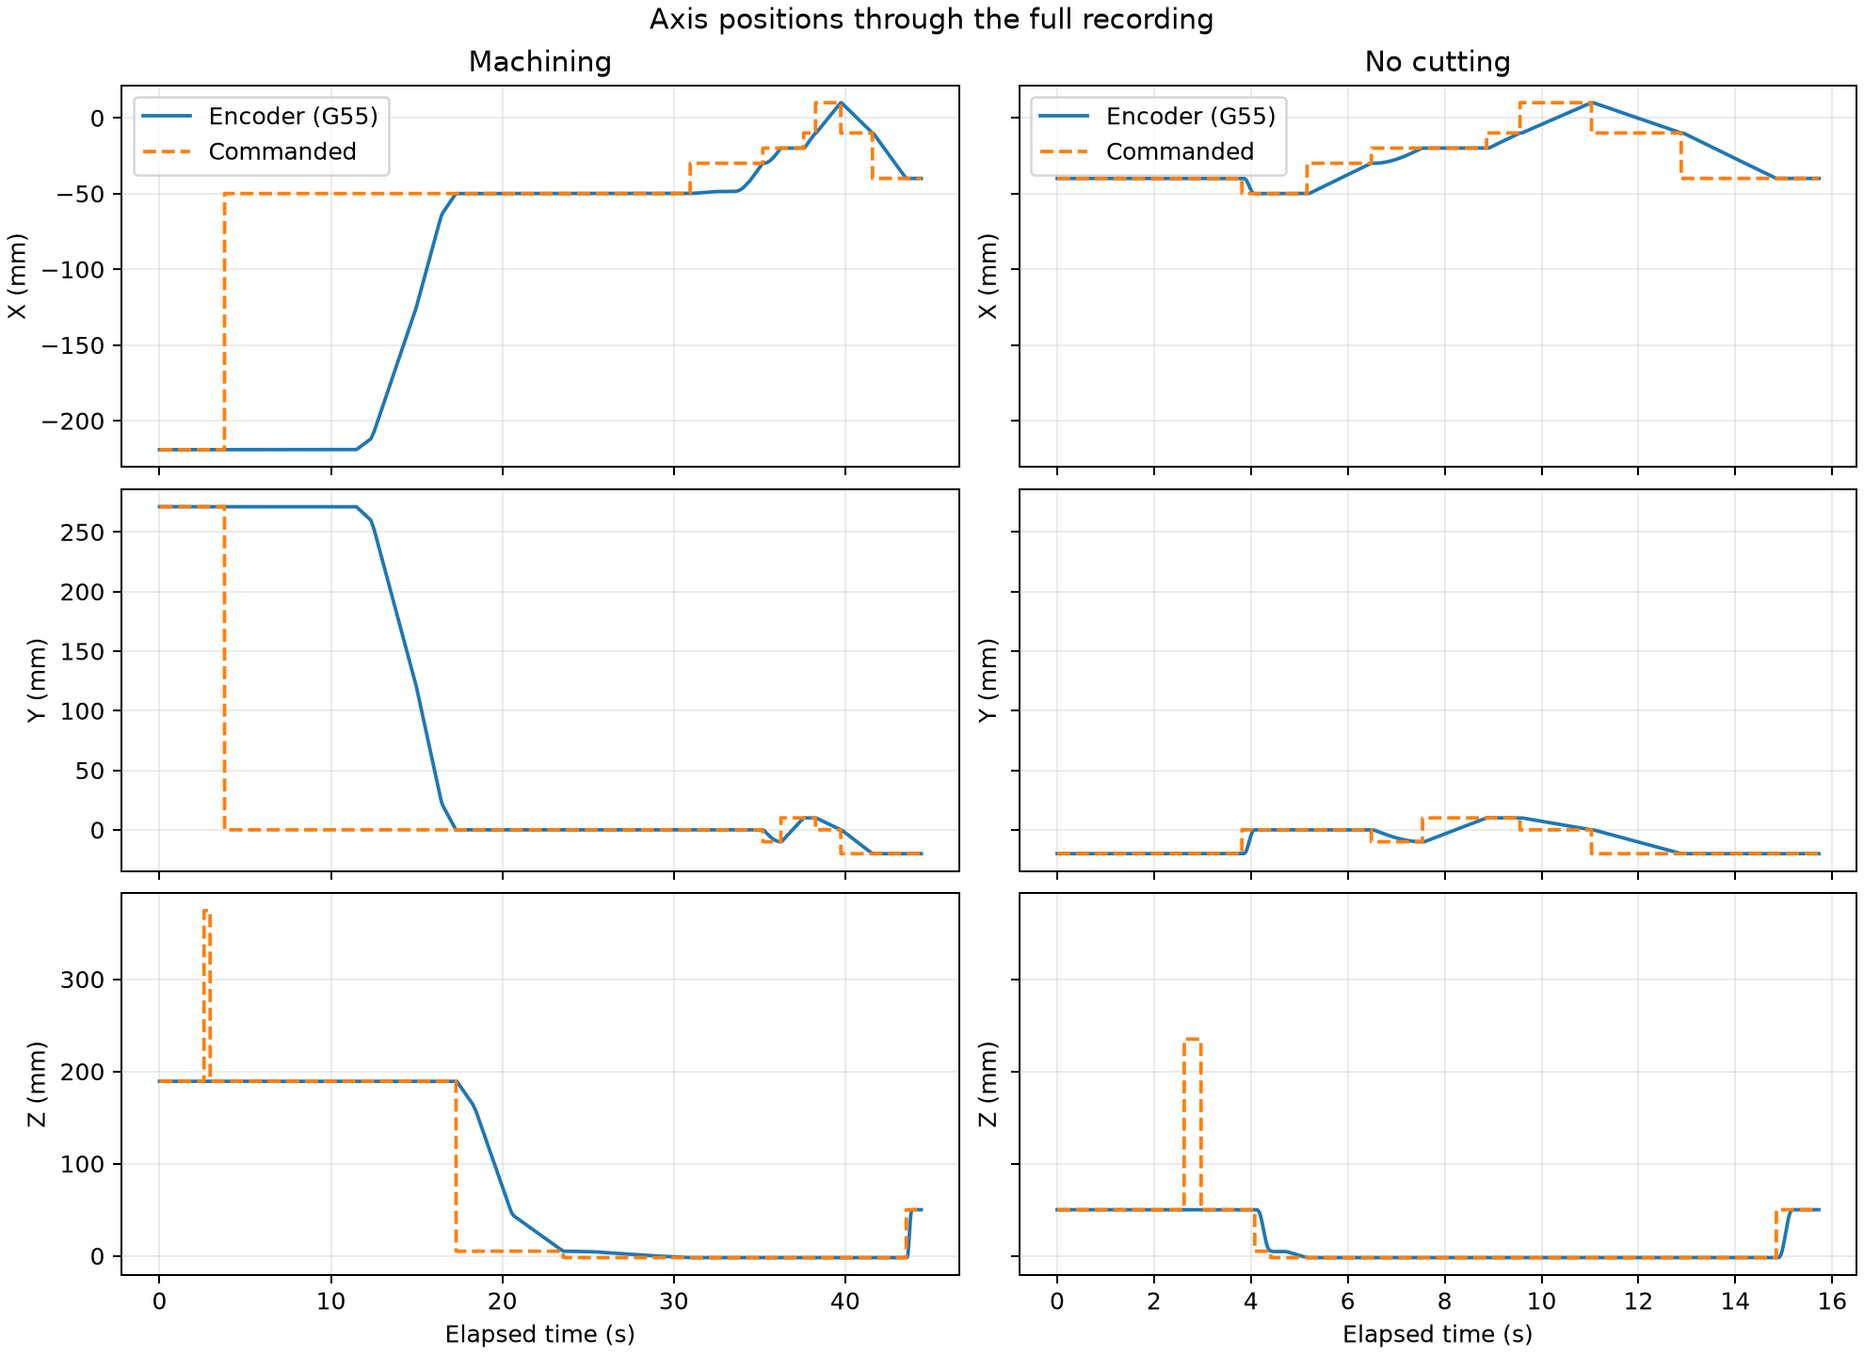
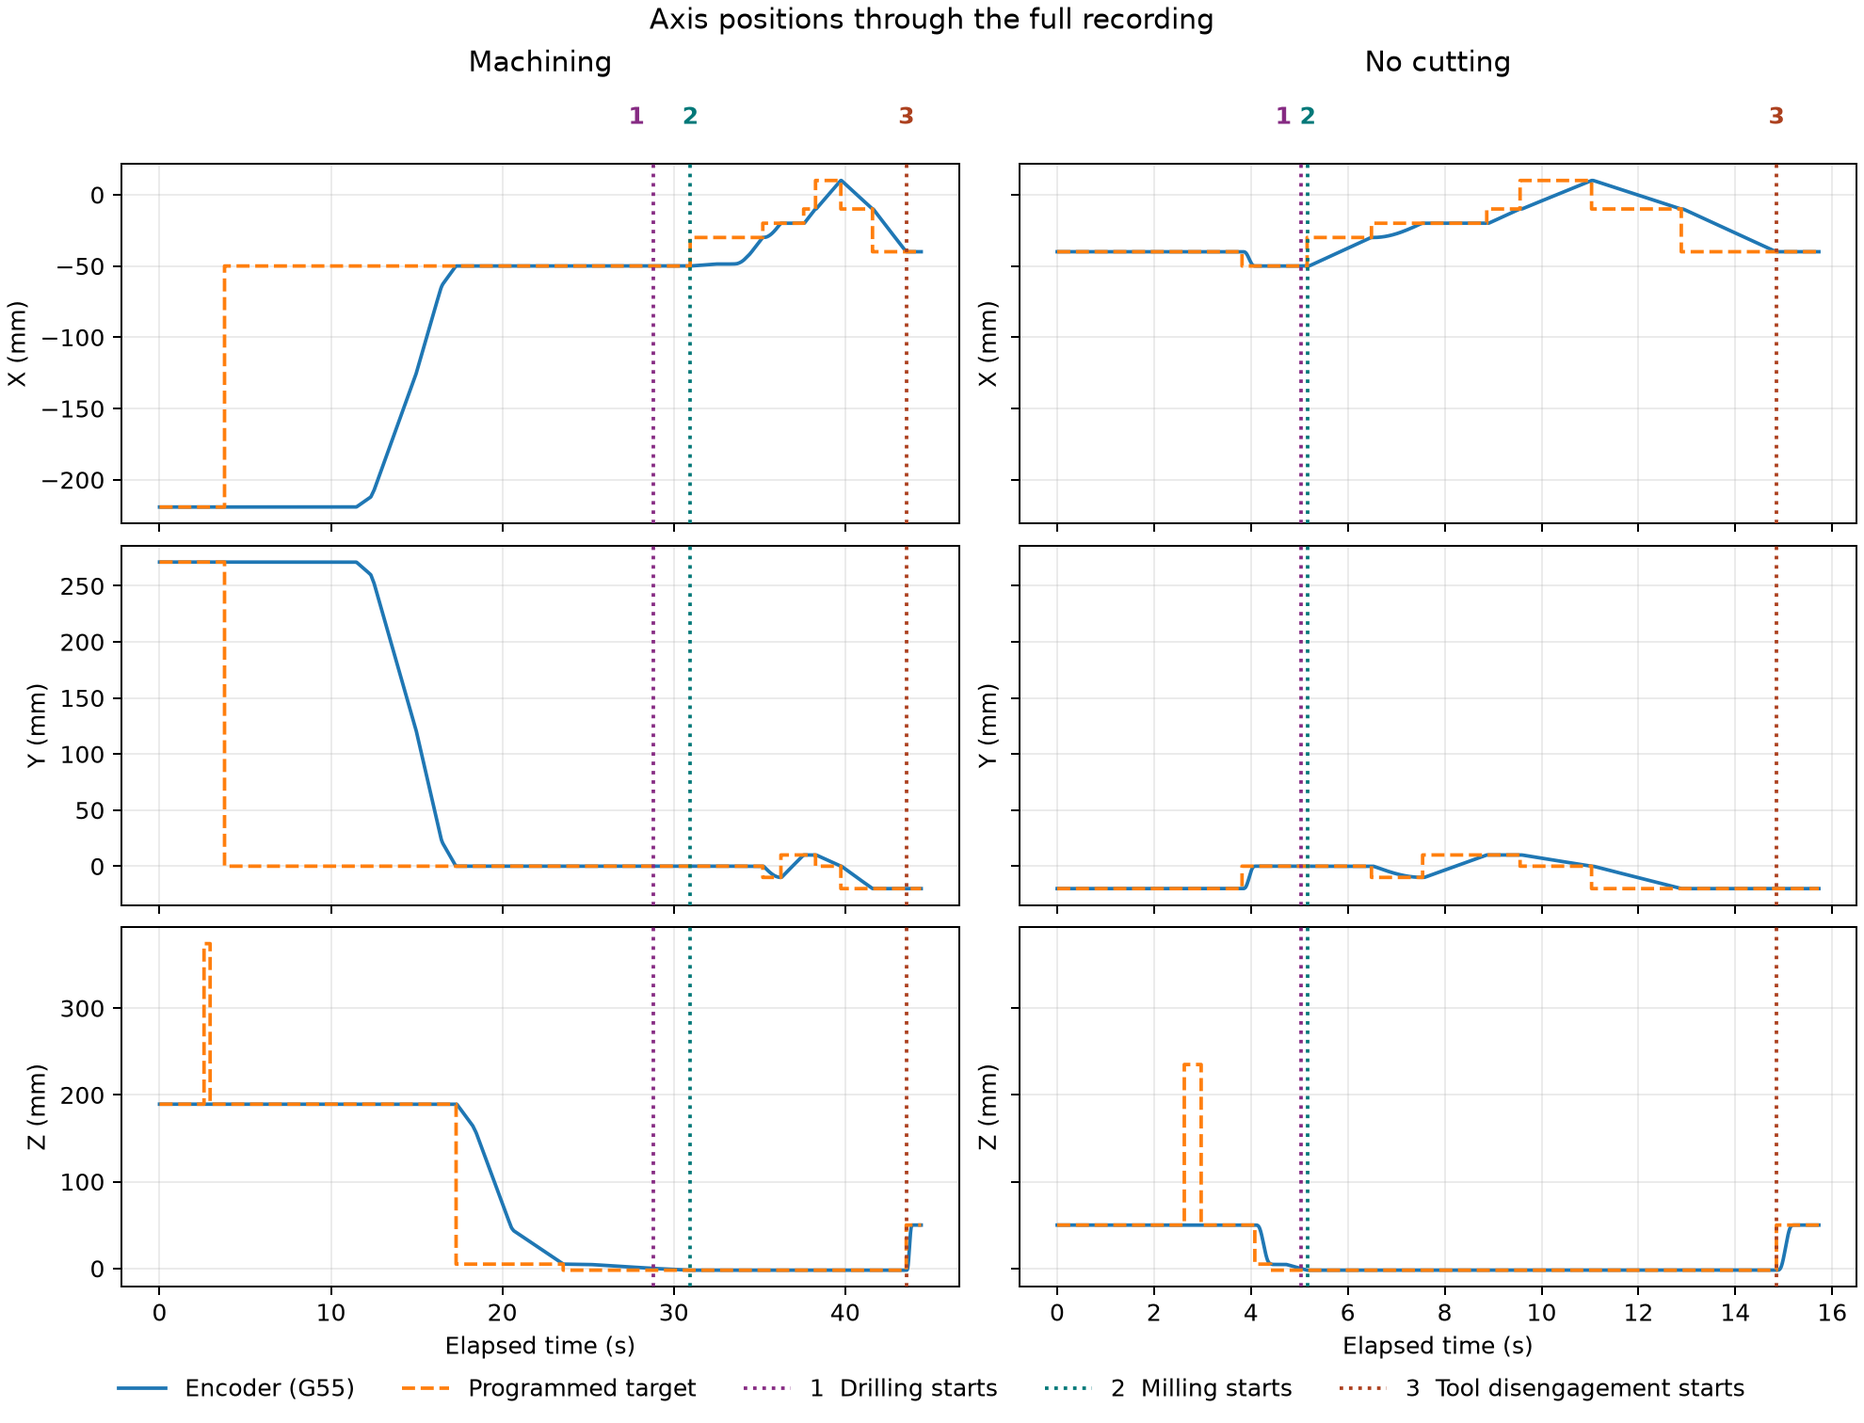
Machining intervals

diff --git a/plot_traces.py b/plot_traces.py
@@ -1,12 +1,15 @@
-"""Generate paired SINUMERIK trace figures. Run with python3 plot_traces.py."""
+"""Generate paired SINUMERIK trace figures and machining_intervals.csv."""
 
 from pathlib import Path
 
 import matplotlib
 import numpy as np
 
+from machining_intervals import DEPTH_Z, RETRACT_Z, identify_intervals, write_intervals
+
 matplotlib.use("Agg")
 import matplotlib.pyplot as plt
+from matplotlib.lines import Line2D
 
 ROOT = Path(__file__).resolve().parent
 RUNS = {
@@ -15,70 +18,162 @@ RUNS = {
 }
 G55 = np.array([-279.872, -272.170, -374.244])  # mm
 TOOL_LENGTH = 184.978  # mm
-DEPTH_Z = -2.0  # programmed contour height in G55, mm
+PHASE_STYLES = {
+    "Drilling": (1, "#862b83", "o"),
+    "Milling": (2, "#007878", "D"),
+    "Tool disengagement": (3, "#ac401e", "s"),
+}
+TRACE_STYLES = [
+    {"label": "Encoder (G55)", "color": "tab:blue", "linestyle": "-"},
+    {"label": "Programmed target", "color": "tab:orange", "linestyle": "--",
+     "drawstyle": "steps-post"},
+]
+
+
+def trajectory_section(time, positions, start, end):
+    """Include interpolated endpoints so adjacent segments meet in the plot."""
+    inside = (start < time) & (time < end)
+    section_time = np.r_[start, time[inside], end]
+    return np.column_stack([np.interp(section_time, time, axis) for axis in positions.T])
 
 
 def main():
     output = ROOT / "plots"
     output.mkdir(exist_ok=True)
-    path_fig = plt.figure(figsize=(11, 5), layout="constrained")
+    path_fig = plt.figure(figsize=(12, 5.8), layout="constrained")
     power_fig, power_axes = plt.subplots(1, 2, sharey=True, figsize=(11, 4), layout="constrained")
-    coord_fig, coord_axes = plt.subplots(3, 2, sharex="col", sharey="row",
-                                         figsize=(11, 8), layout="constrained")
-    path_fig.suptitle("Tool-tip trajectory at programmed Z = −2 mm (Z scale enlarged)")
+    coord_fig, coord_grid = plt.subplots(4, 2, sharex="col", sharey="row",
+                                         height_ratios=(0.18, 1, 1, 1),
+                                         figsize=(11, 8.4), layout="constrained")
+    label_axes, coord_axes = coord_grid[0], coord_grid[1:]
+    path_fig.suptitle("Measured tool-tip trajectory in G55")
     power_fig.suptitle("Drive channel 4 active power")
     coord_fig.suptitle("Axis positions through the full recording")
 
-    contour_points = []
+    path_points = []
+    run_intervals = {}
+    target_style = dict(linestyle="none", marker="o", markersize=7, markerfacecolor="none",
+                        markeredgecolor="0.26", markeredgewidth=1.1)
     for col, (title, filename) in enumerate(RUNS.items()):
         data = np.genfromtxt(ROOT / "data" / filename, delimiter=",", names=True)
         time = data["time_s"]
         commanded = np.column_stack([data[f"programmed_{axis}_mm"] for axis in "xyz"])
         measured = np.column_stack([data[f"measured_{axis}_mm"] for axis in "xyz"]) - G55
         measured[:, 2] -= TOOL_LENGTH
+        intervals = identify_intervals(time, commanded, measured)
+        run_intervals[title] = intervals
+        drilling = next(item for item in intervals if item.phase == "Drilling")
+        disengagement = next(item for item in intervals if item.phase == "Tool disengagement")
+        phase_bounds = {
+            "Drilling": (drilling.start_s, drilling.end_s),
+            "Milling": (drilling.end_s, disengagement.start_s),
+            "Tool disengagement": (disengagement.start_s, disengagement.end_s),
+        }
 
         ax = path_fig.add_subplot(1, 2, col + 1, projection="3d")
         ax.set(title=title, xlabel="X (mm)", ylabel="Y (mm)", zlabel="Z (mm)")
-        at_depth = np.isclose(commanded[:, 2], DEPTH_Z, atol=1e-5, rtol=0)
-        styles = [(measured, "Encoder (G55)", "tab:blue", "-"),
-                  (commanded, "Commanded", "tab:orange", "--")]
-        for points, label, color, style in styles:
-            contour_points.append(points[at_depth])
-            visible = np.where(at_depth[:, None], points, np.nan)
-            ax.plot(*visible.T, label=label, color=color, linestyle=style)
+        label_axis = label_axes[col]
+        label_axis.set_axis_off()
+        label_axis.set_title(title)
+        for phase, (start, end) in phase_bounds.items():
+            number, color, marker = PHASE_STYLES[phase]
+            section = trajectory_section(time, measured, start, end)
+            path_points.append(section)
+            ax.plot(*section.T, color=color, linewidth=2.5, marker=marker, markevery=[0],
+                    markersize=4, markeredgewidth=0.6, markeredgecolor="white", zorder=4)
+            for panel in coord_axes[:, col]:
+                panel.axvline(start, color=color, linestyle=":", linewidth=1.5, zorder=4)
+            # Offset drilling so its label clears the milling label in the dry run.
+            is_drilling = number == 1
+            label_axis.annotate(
+                str(number), (start, 0.5),
+                xycoords=("data", "axes fraction"), xytext=(-4 if is_drilling else 0, 0),
+                textcoords="offset points", color=color, weight="bold",
+                ha="right" if is_drilling else "center", va="center",
+            )
+
+        # The logged targets are waypoints. Connecting them would draw a chord across the arc.
+        targets = [item.target_mm for item in intervals if item.phase == "Milling"]
+        ax.plot(*np.array(targets).T, **target_style, zorder=5)
+        for points, style in zip((measured, commanded), TRACE_STYLES):
             for row, axis_name in enumerate("XYZ"):
                 panel = coord_axes[row, col]
-                panel.plot(time, points[:, row], label=label, color=color, linestyle=style)
+                panel.plot(time, points[:, row], **style)
                 panel.set_ylabel(f"{axis_name} (mm)")
                 panel.grid(alpha=0.25)
-        ax.legend(loc="upper left")
-        coord_axes[0, col].set_title(title)
-        coord_axes[0, col].legend()
         coord_axes[-1, col].set_xlabel("Elapsed time (s)")
         power_axes[col].plot(time, data["active_power"], linewidth=0.9)
         power_axes[col].set(title=title, xlabel="Elapsed time (s)")
         power_axes[col].grid(alpha=0.25)
 
-    points = np.vstack(contour_points)
+    phase_handles = []
+    for phase, (number, color, marker) in PHASE_STYLES.items():
+        label = "Drilling (0 to −2 mm)" if phase == "Drilling" else phase
+        phase_handles.append(Line2D([], [], color=color, marker=marker, label=f"{number}  {label}"))
+    target_handle = Line2D([], [], **target_style, label="Programmed XY targets")
+    path_fig.legend(handles=[*phase_handles, target_handle], loc="outside lower center", ncols=4,
+                    frameon=False)
+    event_handles = [
+        Line2D([], [], color=color, linestyle=":", label=f"{number}  {phase} starts")
+        for phase, (number, color, _) in PHASE_STYLES.items()
+    ]
+    trace_handles = [Line2D([], [], **style) for style in TRACE_STYLES]
+    coord_fig.legend(handles=[*trace_handles, *event_handles], loc="outside lower center",
+                     ncols=5, frameon=False)
+
+    points = np.vstack(path_points)
     low, high = points.min(axis=0) - 1, points.max(axis=0) + 1
-    # Use whole-millimetre ticks and the same vertical magnification in both panels.
     z_min = np.floor(points[:, 2].min())
-    z_max = np.ceil(points[:, 2].max())
+    z_max = RETRACT_Z + 2
     # Leave a full tick interval between the contour and each Y boundary.
     y_step = 5
     low[1] = y_step * (np.floor(points[:, 1].min() / y_step) - 1)
     high[1] = y_step * (np.ceil(points[:, 1].max() / y_step) + 1)
     for ax in path_fig.axes:
         ax.set(xlim=(low[0], high[0]), ylim=(low[1], high[1]), zlim=(z_min, z_max))
-        ax.set_yticks(np.arange(low[1], high[1] + y_step, y_step))
-        ax.yaxis.pane.fill = False
-        ax.set_zticks(np.arange(z_min, z_max + 1, 2))
-        ax.set_box_aspect((high[0] - low[0], high[1] - low[1], 0.55 * (high[0] - low[0])))
+        ax.set_proj_type("ortho")
+        ax.tick_params(axis="both", pad=0, labelsize=8)
+        ax.tick_params(axis="z", pad=9, labelsize=8)
+        x_ticks = np.arange(np.ceil(low[0] / 10) * 10, high[0] + 0.001, 10)
+        y_ticks = np.arange(low[1], high[1] + y_step, y_step)
+        ax.set_xticks([])
+        ax.set_yticks([])
+        # Extend the cutting-plane grid up the two back walls at the same tick positions.
+        ax.grid(False)
+        for axis in (ax.xaxis, ax.yaxis, ax.zaxis):
+            axis.set_pane_color((0.98, 0.98, 0.98, 1))
+        wall_grid = dict(color="0.74", linewidth=0.6, zorder=0)
+        z_ticks = np.r_[DEPTH_Z, np.arange(10, RETRACT_Z + 1, 10)]
+        for z in z_ticks:
+            ax.plot([low[0], low[0], high[0]], [low[1], high[1], high[1]],
+                    [z] * 3, **wall_grid)
+        for x in x_ticks:
+            ax.plot([x, x], [high[1]] * 2, [z_min, z_max], **wall_grid)
+            ax.plot([x, x], [low[1], high[1]], [DEPTH_Z, DEPTH_Z],
+                    color="0.85", linewidth=0.5, zorder=0)
+        for y in y_ticks:
+            ax.plot([low[0]] * 2, [y, y], [z_min, z_max], **wall_grid)
+            ax.plot([low[0], high[0]], [y, y], [DEPTH_Z, DEPTH_Z],
+                    color="0.85", linewidth=0.5, zorder=0)
+        # Anchor the tick marks and numbers to that same plane.
+        for x in x_ticks:
+            ax.plot([x, x], [low[1] - 1, low[1]], [DEPTH_Z] * 2, color="0.3", lw=0.7)
+            ax.text(x, low[1] - 1.4, DEPTH_Z, f"{x:g}", ha="right", va="top", fontsize=8)
+        for y in y_ticks:
+            ax.plot([high[0], high[0] + 1], [y, y], [DEPTH_Z] * 2, color="0.3", lw=0.7)
+            ax.text(high[0] + 1.4, y, DEPTH_Z, f"{y:g}", ha="left", va="top", fontsize=8)
+        ax.xaxis.line.set_visible(False)
+        ax.yaxis.line.set_visible(False)
+        ax.plot([low[0], high[0]], [low[1]] * 2, [DEPTH_Z] * 2, color="0.4", lw=0.7)
+        ax.plot([high[0]] * 2, [low[1], high[1]], [DEPTH_Z] * 2, color="0.4", lw=0.7)
+        ax.set_zticks(z_ticks)
+        ax.set_box_aspect((high[0] - low[0], high[1] - low[1], z_max - z_min))
     power_axes[0].set_ylabel("Active power (W)")
     for fig, name in [(path_fig, "trajectory_3d"), (power_fig, "active_power"),
                       (coord_fig, "coordinates_vs_time")]:
         fig.savefig(output / f"{name}.png", dpi=180)
         plt.close(fig)
+    write_intervals(ROOT / "machining_intervals.csv", run_intervals)
 
 
 if __name__ == "__main__":

diff --git a/machining_intervals.py b/machining_intervals.py
@@ -1,0 +1,111 @@
+"""Identify the cycle phases in the two Assignment 2 SINUMERIK traces."""
+
+import csv
+from dataclasses import dataclass
+
+import numpy as np
+
+SURFACE_Z = 0.0  # mm in G55
+DEPTH_Z = -2.0
+RETRACT_Z = 50.0
+RETRACT_TOLERANCE_MM = 0.02
+
+# The 5ASM.MPF contour runs backward, starting at (-50, 0).
+# Each logged XY target is the endpoint of the next milling block.
+MILLING_BLOCKS = (
+    (-30, 0, "line"),
+    (-20, -10, "arc"),
+    (-20, 10, "line"),
+    (-10, 10, "line"),
+    (10, 0, "line"),
+    (-10, -20, "line"),
+    (-40, -20, "line"),
+)
+
+
+@dataclass(frozen=True)
+class Interval:
+    phase: str
+    start_s: float
+    end_s: float
+    milling_step: int | None = None
+    motion: str = ""
+    target_mm: tuple[float, float, float] | None = None
+
+
+def crossing_time(time, z, level, direction):
+    """Interpolate the first encoder crossing in the requested direction."""
+    distance = direction * (z - level)
+    crossings = np.flatnonzero((distance[:-1] < 0) & (distance[1:] >= 0))
+    if not crossings.size:
+        raise ValueError(f"Encoder Z did not cross {level:g} mm in the expected phase")
+    i = crossings[0]
+    fraction = -distance[i] / (distance[i + 1] - distance[i])
+    return float(time[i] + fraction * (time[i + 1] - time[i]))
+
+
+def identify_intervals(time, commanded, measured):
+    """Return consecutive intervals using commanded targets and encoder G55 positions."""
+    if not np.all(np.isfinite(time)) or not np.all(np.diff(time) > 0):
+        raise ValueError("Trace times must be finite and strictly increasing")
+
+    at_depth = np.isclose(commanded[:, 2], DEPTH_Z, rtol=0, atol=1e-5)
+    depth_changes = np.flatnonzero(at_depth[1:] != at_depth[:-1]) + 1
+    if len(depth_changes) != 2 or not at_depth[depth_changes[0]]:
+        raise ValueError("Expected one commanded plunge and retract")
+    plunge, retract = depth_changes
+    if not np.isclose(commanded[retract, 2], RETRACT_Z):
+        raise ValueError("Expected a retract to the 50 mm plane")
+
+    # Ignore setup moves and look for new XY targets during the contour cycle.
+    contour = commanded[plunge:retract, :2]
+    target_changes = np.flatnonzero(np.any(np.diff(contour, axis=0) != 0, axis=1))
+    target_rows = target_changes + plunge + 1
+    expected_targets = [(x, y) for x, y, _ in MILLING_BLOCKS]
+    if (not np.allclose(contour[0], (-50, 0))
+            or len(target_rows) != len(expected_targets)
+            or not np.allclose(commanded[target_rows, :2], expected_targets)):
+        raise ValueError("Logged XY targets do not match the reversed 5ASM.MPF contour")
+
+    # The first XY target is logged slightly before the encoder reaches full depth.
+    # Use the actual depth crossing for the plunge-to-milling boundary.
+    descent = slice(plunge, target_rows[1])
+    z = measured[:, 2]
+    surface_s = crossing_time(time[descent], z[descent], SURFACE_Z, direction=-1)
+    depth_s = crossing_time(time[descent], z[descent], DEPTH_Z, direction=-1)
+    retract_s = float(time[retract])
+    safe_s = crossing_time(time[retract:], z[retract:],
+                           RETRACT_Z - RETRACT_TOLERANCE_MM, direction=1)
+
+    intervals = [
+        Interval("Positioning", float(time[0]), surface_s),
+        Interval("Drilling", surface_s, depth_s, motion="plunge",
+                 target_mm=(*contour[0], DEPTH_Z)),
+    ]
+    milling_bounds = [depth_s, *time[target_rows[1:]], retract_s]
+    for step, (x, y, motion) in enumerate(MILLING_BLOCKS, start=1):
+        intervals.append(Interval("Milling", milling_bounds[step - 1], milling_bounds[step],
+                                  milling_step=step, motion=motion,
+                                  target_mm=(x, y, DEPTH_Z)))
+    intervals.extend([
+        Interval("Tool disengagement", retract_s, safe_s, motion="retract",
+                 target_mm=(*commanded[retract, :2], RETRACT_Z)),
+        Interval("Post-retract hold", safe_s, float(time[-1])),
+    ])
+    if any(interval.start_s >= interval.end_s for interval in intervals):
+        raise ValueError("Cycle boundaries must form positive-duration intervals")
+    return intervals
+
+
+def write_intervals(path, runs):
+    with path.open("w", newline="", encoding="utf-8") as output:
+        writer = csv.writer(output, lineterminator="\n")
+        writer.writerow(["run", "phase", "milling_step", "motion", "start_s", "end_s",
+                         "duration_s", "target_x_mm", "target_y_mm", "target_z_mm"])
+        for run, intervals in runs.items():
+            for item in intervals:
+                start = round(item.start_s, 3)
+                end = round(item.end_s, 3)
+                writer.writerow([run, item.phase, item.milling_step, item.motion,
+                                 f"{start:.3f}", f"{end:.3f}", f"{end - start:.3f}",
+                                 *(item.target_mm or ("", "", ""))])

diff --git a/README.md b/README.md
@@ -38,3 +38,28 @@ The two CSV files record the CNC signals at 4 ms intervals (250 Hz). Each row co
 | `programmed_x_mm`, `programmed_y_mm`, `programmed_z_mm` | `s1`, `s2`, `s3` | Commanded X, Y and Z positions in the G55 workpiece frame, in millimetres. |
 | `measured_x_mm`, `measured_y_mm`, `measured_z_mm` | `s4`, `s5`, `s6` | Encoder 1 feedback for X, Y and Z in machine coordinates, in millimetres. Apply the G55 offset and the Z tool-length correction before comparing these values with the commanded positions. |
 | `active_power` | `s11` | Active power reported for drive channel 4, in watts (W). |
+
+## Machining intervals
+
+Run `python3 plot_traces.py` with Python 3.10+, NumPy and Matplotlib 3.7+ to generate
+[machining_intervals.csv](machining_intervals.csv) and refresh the plots. Each CSV
+row gives the start, end and duration of one phase in its own recording. The
+milling rows also give the contour block number, motion type and programmed
+target in G55.
+
+1. **Positioning** covers the initial recording and the approach to the surface.
+2. **Drilling (plunge)** starts when the encoder Z crosses the workpiece surface
+   (0 mm) and ends when it reaches the programmed contour depth (−2 mm).
+   This analysis interprets `Z = 1 mm` in Task 1 as the cycle's `Z1` depth parameter.
+3. **Milling** follows the seven contour blocks in the reverse order specified by
+   the cycle. The commanded XY columns report each block's destination as a step.
+   New targets mark the subsequent block starts. The first block starts at the
+   measured depth crossing because the first XY target is logged slightly earlier.
+4. **Tool disengagement** starts at the retract command and ends when the encoder
+   comes within 0.02 mm of the 50 mm retract plane. The remaining samples form the
+   post-retract hold.
+
+Encoder crossing times are linearly interpolated between the 4 ms samples after
+applying G55 and the Z tool-length correction. Physical cutter contact would
+require separate evidence. The numbers 1, 2 and 3 in the plots mark the starts
+of drilling, milling and disengagement, respectively.

diff --git a/TODO.md b/TODO.md
@@ -1,0 +1,19 @@
+# TODO file
+
+## Task 1 - Machining intervals 
+
+Show clearly the machining of the workpiece. The machining must divided into this steps:
+
+0. Tool positioning
+1. Drilling: t at which starts the drilling (`Z=0 mm`) to the end of drilling (`Z = 1 mm`)
+2. Milling: different steps of milling
+3. tool disengagment 
+
+Write a python code that takes the [data](./data/) and identifies the several timings, for both the machining and NON-machining processes. Save these machining parameters into `csv` file.
+
+Then add to the [plot](./plots/coordinates_vs_time.png) vertical lines indicating the istants 1, 2 and 3 (the milling phases can be ignored in the plot). 
+
+Modify the [graphics](./plots/trajectory_3d.png):
+
+* insert the drilling phase and preserve the disengagment, while the postioning can be ignored
+* insert some hilighting of the same phases indicated in the plot above.
